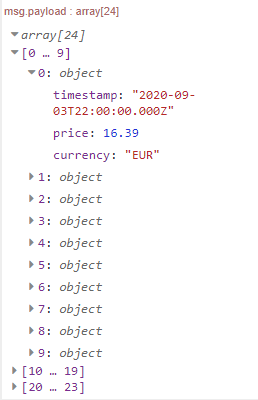
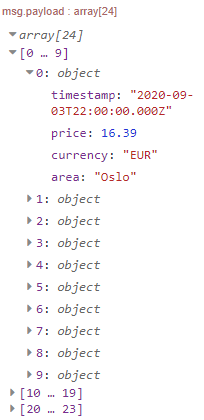
Re-added area as output

Changed region(s): [[0.0, 0.0, 0.9412, 1.0]]

diff --git a/nordpool-api-plus.js b/nordpool-api-plus.js
@@ -43,7 +43,8 @@ module.exports = function (RED) {
           const values = {
             timestamp: results[i].date.tz('Europe/Oslo'),
             price: results[i].value,
-            currency: opts.currency
+            currency: opts.currency,
+            area: AREA
           }
           pricesOut.push(values)
         }

diff --git a/nordpool-api-plus.html b/nordpool-api-plus.html
@@ -107,6 +107,12 @@
         <dd>
             The currency of the price.
         </dd>
+        <dt>area
+            <span class="property-type">String</span>
+        </dt>
+        <dd>
+            The area the returned price applies to.
+        </dd>
     </dl>
 
 </script>
